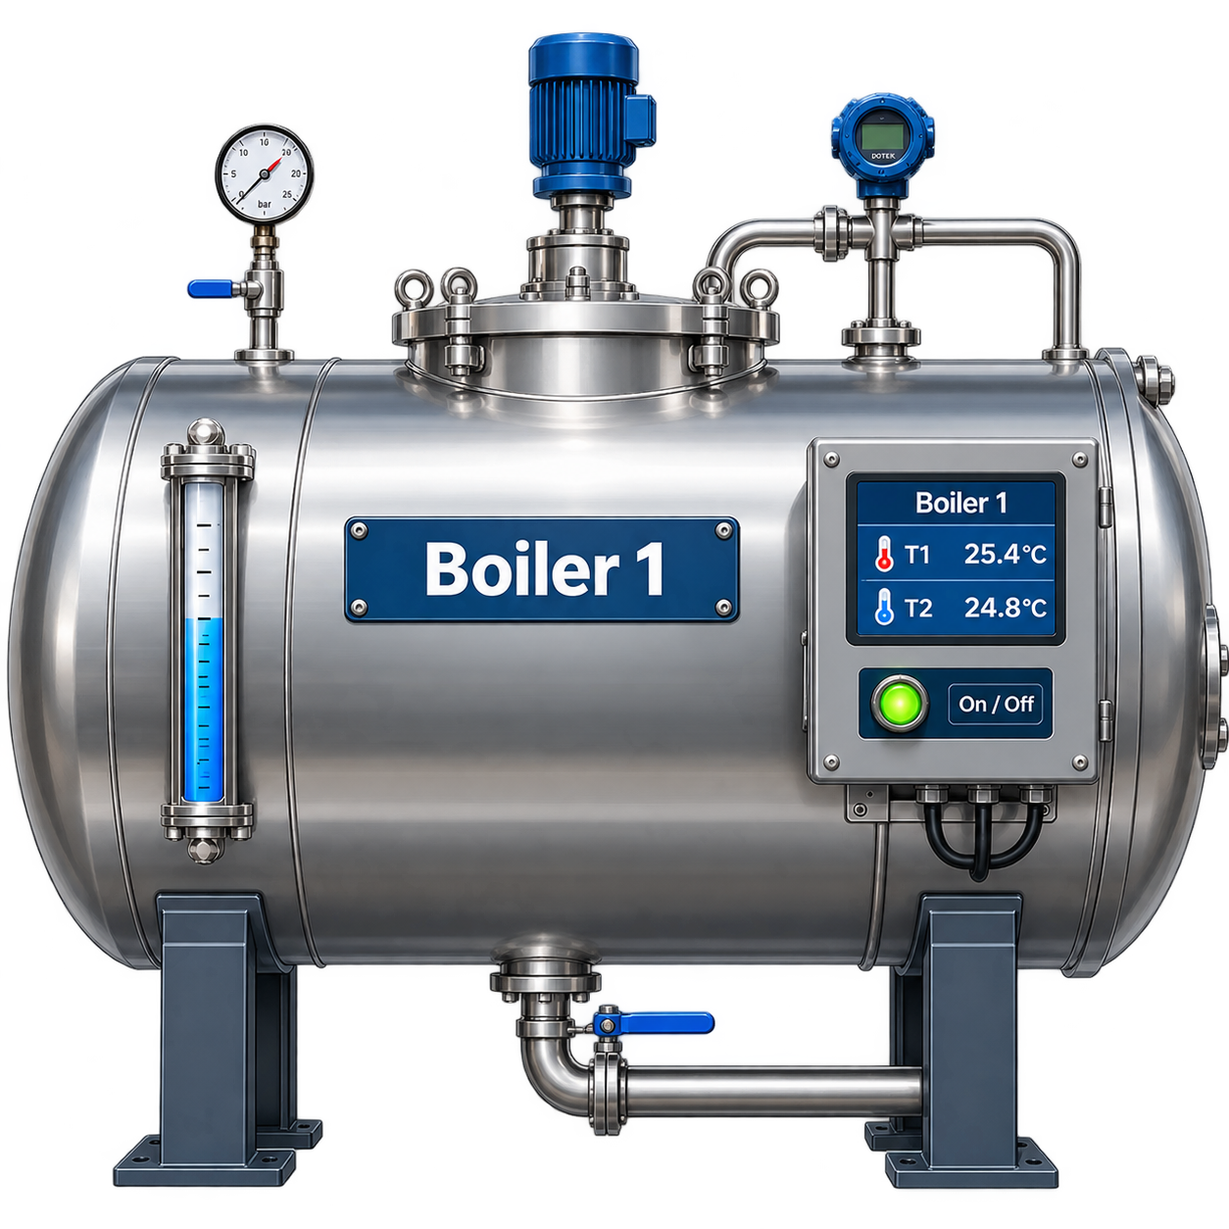
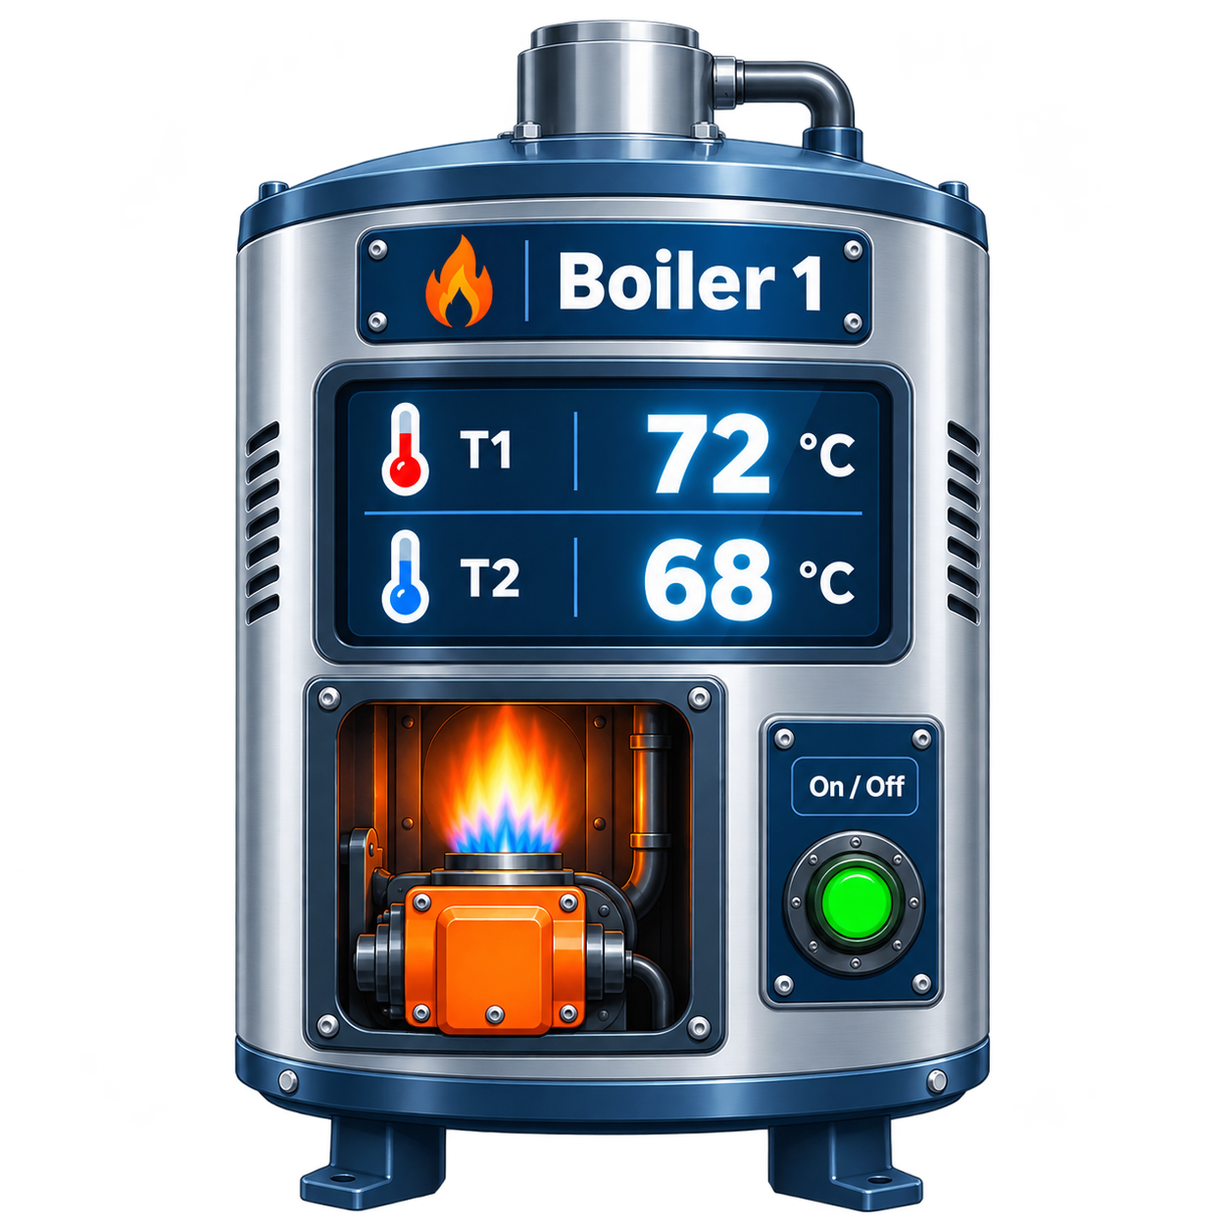
update dashboard

diff --git a/src/routes/monitoring-area.$id.tsx b/src/routes/monitoring-area.$id.tsx
@@ -1,6 +1,6 @@
 import { createFileRoute, Link } from "@tanstack/react-router";
 import { useState, useMemo } from "react";
-import { ChevronLeft, Activity, Flame, Gauge, Power, BarChart3, Filter, Waves, Zap, Thermometer, DollarSign, Fuel, ChevronRight, ChevronsLeft, ChevronsRight, ArrowUpDown, ChevronDown, Calendar, Eye, Download, Pencil, Trash2 } from "lucide-react";
+import { ChevronLeft, Activity, Flame, Gauge, Power, BarChart3, Filter, Waves, Zap, Thermometer, DollarSign, Fuel, ChevronRight, ChevronsLeft, ChevronsRight, ArrowUpDown, ChevronDown, Calendar, Eye, Download, Pencil, Trash2, X } from "lucide-react";
 import { Search } from "@/components/ui/search";
 import { SelectInput } from "@/components/ui/select-input";
 import { Input } from "@/components/ui/input";
@@ -317,6 +317,53 @@ const MINUTE_DATA = Array.from({ length: 30 }, (_, i) => {
 
 function StationDetailContent({ tabKey }: { tabKey: string }) {
   const data = PROCESS_DETAIL_STATIONS[tabKey as keyof typeof PROCESS_DETAIL_STATIONS] as Record<string, any> | undefined;
+  const [timeFilter, setTimeFilter] = useState<"daily" | "monthly" | "yearly">("daily");
+  const [isImageModalOpen, setIsImageModalOpen] = useState(false);
+
+  const trendData = useMemo(() => {
+    if (!data) return [];
+    
+    let length = 24;
+    let getLabel = (i: number) => {
+      if (timeFilter === "daily") {
+        return `${i.toString().padStart(2, '0')}:00`;
+      } else if (timeFilter === "monthly") {
+        return `Day ${i + 1}`;
+      } else {
+        const months = ["Jan", "Feb", "Mar", "Apr", "May", "Jun", "Jul", "Aug", "Sep", "Oct", "Nov", "Dec"];
+        return months[i];
+      }
+    };
+    
+    if (timeFilter === "daily") length = 24;
+    else if (timeFilter === "monthly") length = 30;
+    else length = 12;
+
+    return Array.from({ length }, (_, i) => ({
+      time: getLabel(i),
+      pv: +(parseFloat(data.pv) + (Math.random() * 2 - 1)).toFixed(1),
+      sp: parseFloat(data.sp),
+    }));
+  }, [data, timeFilter]);
+
+  const tableData = useMemo(() => {
+    if (!data) return [];
+    return Array.from({ length: 10 }, (_, i) => {
+      // 16 September 2026, 10:00 (decrementing hour for each row)
+      const date = new Date(2026, 8, 16, 10 - i, 0); 
+      const day = date.getDate();
+      const month = date.toLocaleString('default', { month: 'long' });
+      const year = date.getFullYear();
+      const timeStr = date.toLocaleTimeString('en-GB', { hour: '2-digit', minute: '2-digit' });
+
+      return {
+        time: `${day} ${month} ${year}, ${timeStr}`,
+        pv: +(parseFloat(data.pv) + (Math.random() * 2 - 1)).toFixed(1),
+        sp: parseFloat(data.sp),
+      };
+    });
+  }, [data]);
+
   if (!data) return null;
   return (
     <div className="animate-in fade-in duration-300 bg-card border border-border rounded-lg shadow-sm p-4 m-4">
@@ -343,57 +390,181 @@ function StationDetailContent({ tabKey }: { tabKey: string }) {
         />
       </div>
 
-      {/* Station Illustration */}
-      <div className="border border-border/50 rounded-lg overflow-hidden bg-background mb-6">
-        <div className="flex justify-between items-center p-3 bg-secondary/30 border-b border-border/50">
-          <div className="flex items-center gap-2">
-            <Activity className="h-4 w-4 text-muted-foreground" />
-            <span className="text-xs font-semibold text-muted-foreground uppercase tracking-wider">Station Diagram — {data.name}</span>
+      <div className="grid grid-cols-1 lg:grid-cols-12 gap-6 mb-6">
+        {/* Station Illustration */}
+        <div className="lg:col-span-5 border border-border/50 rounded-lg overflow-hidden bg-background flex flex-col h-full">
+          <div className="flex justify-between items-center p-3 bg-secondary/30 border-b border-border/50 shrink-0">
+            <div className="flex items-center gap-2">
+              <Activity className="h-4 w-4 text-muted-foreground" />
+              <span className="text-xs font-semibold text-muted-foreground uppercase tracking-wider">Station Diagram — {data.name}</span>
+            </div>
+            <span className="text-[10px] font-mono px-2 py-0.5 rounded bg-orange-500/10 text-orange-600 border border-orange-500/20">READ-ONLY</span>
           </div>
-          <span className="text-[10px] font-mono px-2 py-0.5 rounded bg-orange-500/10 text-orange-600 border border-orange-500/20">READ-ONLY</span>
+
+          <div 
+            className="relative w-full flex-1 flex items-center justify-center p-4 min-h-[250px] cursor-pointer hover:opacity-80 transition-opacity"
+            onClick={() => setIsImageModalOpen(true)}
+            title="Click to enlarge"
+          >
+            {tabKey === "pre-degreasing" ? (
+              <img src={StationPreDegreasingPng} alt={`Station ${data.name}`} className="absolute inset-4 w-[calc(100%-2rem)] h-[calc(100%-2rem)] object-contain mix-blend-multiply dark:mix-blend-screen dark:invert" />
+            ) : tabKey === "degreasing" ? (
+              <img src={StationDegreasingNewPng} alt={`Station ${data.name}`} className="absolute inset-4 w-[calc(100%-2rem)] h-[calc(100%-2rem)] object-contain mix-blend-multiply dark:mix-blend-screen dark:invert" />
+            ) : tabKey === "flood" ? (
+              <img src={StationFloodPng} alt={`Station ${data.name}`} className="absolute inset-4 w-[calc(100%-2rem)] h-[calc(100%-2rem)] object-contain mix-blend-multiply dark:mix-blend-screen dark:invert" />
+            ) : tabKey === "phosphate" ? (
+              <img src={StationPhosphatePng} alt={`Station ${data.name}`} className="absolute inset-4 w-[calc(100%-2rem)] h-[calc(100%-2rem)] object-contain mix-blend-multiply dark:mix-blend-screen dark:invert" />
+            ) : (
+              <div className="w-full h-full flex items-center justify-center text-muted-foreground text-sm">Station diagram coming soon</div>
+            )}
+          </div>
         </div>
 
-        <div className="relative w-full overflow-auto flex items-center justify-center p-4">
-          {tabKey === "pre-degreasing" ? (
-            <img src={StationPreDegreasingPng} alt={`Station ${data.name}`} className="w-full h-auto object-contain mix-blend-multiply dark:mix-blend-screen dark:invert" />
-          ) : tabKey === "degreasing" ? (
-            <img src={StationDegreasingNewPng} alt={`Station ${data.name}`} className="w-full h-auto object-contain mix-blend-multiply dark:mix-blend-screen dark:invert" />
-          ) : tabKey === "flood" ? (
-            <img src={StationFloodPng} alt={`Station ${data.name}`} className="w-full h-auto object-contain mix-blend-multiply dark:mix-blend-screen dark:invert" />
-          ) : tabKey === "phosphate" ? (
-            <img src={StationPhosphatePng} alt={`Station ${data.name}`} className="w-full h-auto object-contain mix-blend-multiply dark:mix-blend-screen dark:invert" />
-          ) : (
-            <div className="w-full h-[400px] flex items-center justify-center text-muted-foreground text-sm">Station diagram coming soon</div>
-          )}
+        {/* Temperature Trend Chart */}
+        <div className="lg:col-span-7 rounded-xl border bg-card p-6 shadow-sm flex flex-col h-full">
+          <div className="flex justify-between items-start mb-6 shrink-0">
+            <div>
+              <h2 className="text-xl font-bold tracking-tight text-foreground">Temperature Trends</h2>
+              <p className="text-sm text-muted-foreground mt-1">Temperature PV and SP trend over the selected {timeFilter} timeframe.</p>
+            </div>
+            <div className="flex bg-secondary/50 rounded-lg p-1 border border-border/50 shrink-0">
+              {(["daily", "monthly", "yearly"] as const).map((t) => (
+                <button
+                  key={t}
+                  onClick={() => setTimeFilter(t)}
+                  className={`px-4 py-1.5 rounded-md text-xs font-medium transition-colors ${timeFilter === t
+                    ? "bg-background text-foreground shadow-sm border border-border/50"
+                    : "text-muted-foreground hover:text-foreground hover:bg-secondary/80"
+                    }`}
+                >
+                  {t === "daily" ? "Daily (24H)" : t === "monthly" ? "Monthly (30D)" : "Yearly (Jan-Dec)"}
+                </button>
+              ))}
+            </div>
+          </div>
+          <div className="flex-1 w-full min-h-[300px]">
+            <ResponsiveContainer width="100%" height="100%">
+              <LineChart data={trendData} margin={{ top: 20, right: 30, left: 10, bottom: 5 }}>
+                <CartesianGrid strokeDasharray="3 3" vertical={false} opacity={0.3} />
+                <XAxis dataKey="time" tick={{ fontSize: 12 }} tickLine={false} axisLine={false} />
+                <YAxis tick={{ fontSize: 12 }} domain={['dataMin - 2', 'dataMax + 2']} tickLine={false} axisLine={false} label={{ value: 'Temperature (°C)', angle: -90, position: 'insideLeft', offset: -5, style: { fontSize: 12, fill: '#3b82f6', fontWeight: 600 } }} />
+                <Tooltip contentStyle={{ backgroundColor: "rgba(0,0,0,0.8)", borderRadius: "8px", border: "1px solid rgba(255,255,255,0.1)" }} itemStyle={{ fontSize: 12 }} />
+                <Legend wrapperStyle={{ paddingTop: "20px" }} iconType="circle" />
+                <Line type="monotone" dataKey="sp" name="Set Point" stroke="#ef4444" strokeWidth={2} strokeDasharray="5 5" dot={false} activeDot={false} />
+                <Line type="monotone" dataKey="pv" name="Actual Temp" stroke="#3b82f6" strokeWidth={2} dot={{ r: 4, strokeWidth: 2, fill: "hsl(var(--card))" }} activeDot={{ r: 6 }} />
+              </LineChart>
+            </ResponsiveContainer>
+          </div>
         </div>
       </div>
 
-      {/* Temperature Trend Chart */}
-      <Panel title="Temperature Trends" className="mb-2">
-        <div className="h-[300px] w-full p-4">
-          <ResponsiveContainer width="100%" height="100%">
-            <LineChart
-              data={Array.from({ length: 30 }, (_, i) => {
-                const time = new Date(Date.now() - (29 - i) * 60000);
-                return {
-                  time: time.toLocaleTimeString([], { hour: '2-digit', minute: '2-digit' }),
-                  pv: +(parseFloat(data.pv) + (Math.random() * 2 - 1)).toFixed(1),
-                  sp: parseFloat(data.sp),
-                };
-              })}
-              margin={{ top: 10, right: 10, left: 10, bottom: 0 }}
-            >
-              <CartesianGrid strokeDasharray="3 3" vertical={false} opacity={0.3} />
-              <XAxis dataKey="time" tick={{ fontSize: 10 }} tickMargin={10} />
-              <YAxis tick={{ fontSize: 10 }} domain={['dataMin - 2', 'dataMax + 2']} label={{ value: 'Temperature', angle: -90, position: 'insideLeft', style: { textAnchor: 'middle', fill: '#3b82f6', fontSize: 12, fontWeight: 600 } }} />
-              <Tooltip contentStyle={{ backgroundColor: "rgba(0,0,0,0.8)", borderRadius: "8px", border: "1px solid rgba(255,255,255,0.1)" }} itemStyle={{ fontSize: 12 }} />
-              <Legend wrapperStyle={{ fontSize: "12px", paddingTop: "10px" }} />
-              <Line type="monotone" dataKey="sp" name="Set Point" stroke="#ef4444" strokeWidth={1.5} strokeDasharray="3 3" dot={false} activeDot={false} />
-              <Line type="monotone" dataKey="pv" name="Actual Temp" stroke="#3b82f6" strokeWidth={2} dot={false} activeDot={{ r: 4 }} />
-            </LineChart>
-          </ResponsiveContainer>
+      {/* Table History */}
+      <div className="w-full rounded-lg border border-border bg-card shadow-sm overflow-hidden mt-6 mb-2">
+        <div className="flex items-center justify-between p-4 border-b border-border/50 bg-card">
+          <h3 className="text-lg font-semibold text-foreground">Temperature History</h3>
         </div>
-      </Panel>
+        {/* Search and Filters */}
+        <div className="flex flex-col lg:flex-row items-center gap-4 px-4 py-3 bg-secondary/10 border-b border-border/50 w-full">
+          <Search placeholder="Search" containerClassName="flex-1 w-full" />
+          <div className="flex items-center gap-2 px-3 py-2 rounded-lg border border-border bg-background text-sm text-muted-foreground cursor-pointer hover:bg-secondary/20 transition-colors">
+            <Calendar className="h-4 w-4" />
+            <span>dd/mm/yyyy - dd/mm/yyyy</span>
+          </div>
+        </div>
+
+        <Table freezeHeader={false}>
+          <THead>
+            <Tr noHover>
+              <Th sortable column="time">TIME / PERIOD</Th>
+              <Th sortable column="pv" className="text-right">ACTUAL TEMP (PV)</Th>
+              <Th sortable column="sp" className="text-right">SET POINT (SP)</Th>
+              <Th sortable column="status" className="text-center">STATUS</Th>
+            </Tr>
+          </THead>
+          <TBody>
+            {tableData.map((row, idx) => {
+              const diff = Math.abs(row.pv - row.sp);
+              const isWarning = diff > 2; // Threshold for warning
+              return (
+                <Tr key={idx}>
+                  <Td className="font-medium text-foreground">{row.time}</Td>
+                  <Td className="text-right font-mono font-medium text-blue-500">{row.pv.toFixed(1)} °C</Td>
+                  <Td className="text-right font-mono font-medium text-foreground">{row.sp.toFixed(1)} °C</Td>
+                  <Td className="text-center">
+                    {isWarning ? (
+                      <span className="inline-flex items-center px-2 py-0.5 rounded text-[10px] font-semibold bg-red-500/10 text-red-600 border border-red-500/20">WARNING</span>
+                    ) : (
+                      <span className="inline-flex items-center px-2 py-0.5 rounded text-[10px] font-semibold bg-emerald-500/10 text-emerald-600 border border-emerald-500/20">NORMAL</span>
+                    )}
+                  </Td>
+                </Tr>
+              );
+            })}
+          </TBody>
+        </Table>
+
+        {/* Pagination Footer */}
+        <div className="flex items-center justify-between px-4 py-4 border-t border-border/60">
+          <div className="flex items-center gap-4 text-sm text-muted-foreground font-medium">
+            <div className="flex items-center gap-2">
+              <span>Rows per page</span>
+              <div className="flex items-center justify-between w-[60px] px-2 py-1.5 border border-border rounded-md bg-background cursor-pointer hover:bg-secondary/40 transition-colors">
+                <span>10</span>
+                <ChevronDown className="h-3 w-3 opacity-50" />
+              </div>
+            </div>
+            <span>1–10 of {tableData.length}</span>
+          </div>
+          <div className="flex items-center gap-1">
+            <button className="w-8 h-8 flex items-center justify-center rounded-md border border-border text-muted-foreground hover:bg-secondary/40 hover:text-foreground transition-colors text-sm font-medium">«</button>
+            <button className="w-8 h-8 flex items-center justify-center rounded-md border border-border text-muted-foreground hover:bg-secondary/40 hover:text-foreground transition-colors text-sm font-medium">‹</button>
+            <button className="w-8 h-8 flex items-center justify-center rounded-md bg-[#1F5AA6] text-white text-sm font-semibold border border-[#1F5AA6]">1</button>
+            <button className="w-8 h-8 flex items-center justify-center rounded-md border border-border text-muted-foreground hover:bg-secondary/40 hover:text-foreground transition-colors text-sm font-medium">2</button>
+            <button className="w-8 h-8 flex items-center justify-center rounded-md border border-border text-muted-foreground hover:bg-secondary/40 hover:text-foreground transition-colors text-sm font-medium">3</button>
+            <button className="w-8 h-8 flex items-center justify-center rounded-md border border-border text-muted-foreground hover:bg-secondary/40 hover:text-foreground transition-colors text-sm font-medium">›</button>
+            <button className="w-8 h-8 flex items-center justify-center rounded-md border border-border text-muted-foreground hover:bg-secondary/40 hover:text-foreground transition-colors text-sm font-medium">»</button>
+          </div>
+        </div>
+      </div>
+
+      {/* Image Modal Popup */}
+      {isImageModalOpen && (
+        <div 
+          className="fixed inset-0 z-50 flex items-center justify-center bg-black/60 backdrop-blur-sm p-4 animate-in fade-in duration-200"
+          onClick={() => setIsImageModalOpen(false)}
+        >
+          <div 
+            className="relative bg-background rounded-xl shadow-2xl border border-border/50 max-w-5xl w-full max-h-[90vh] flex flex-col overflow-hidden animate-in zoom-in-95 duration-200"
+            onClick={(e) => e.stopPropagation()}
+          >
+            <div className="flex justify-between items-center p-4 border-b border-border/50 bg-muted/30">
+              <h3 className="font-semibold flex items-center gap-2">
+                <Activity className="w-4 h-4 text-primary" />
+                Station Diagram — {data.name}
+              </h3>
+              <button 
+                onClick={() => setIsImageModalOpen(false)}
+                className="p-1 rounded-md hover:bg-muted text-muted-foreground transition-colors"
+              >
+                <X className="w-5 h-5" />
+              </button>
+            </div>
+            <div className="p-6 overflow-auto flex-1 flex items-center justify-center min-h-[50vh]">
+              {tabKey === "pre-degreasing" ? (
+                <img src={StationPreDegreasingPng} alt={`Station ${data.name}`} className="max-w-full max-h-[70vh] object-contain mix-blend-multiply dark:mix-blend-screen dark:invert" />
+              ) : tabKey === "degreasing" ? (
+                <img src={StationDegreasingNewPng} alt={`Station ${data.name}`} className="max-w-full max-h-[70vh] object-contain mix-blend-multiply dark:mix-blend-screen dark:invert" />
+              ) : tabKey === "flood" ? (
+                <img src={StationFloodPng} alt={`Station ${data.name}`} className="max-w-full max-h-[70vh] object-contain mix-blend-multiply dark:mix-blend-screen dark:invert" />
+              ) : tabKey === "phosphate" ? (
+                <img src={StationPhosphatePng} alt={`Station ${data.name}`} className="max-w-full max-h-[70vh] object-contain mix-blend-multiply dark:mix-blend-screen dark:invert" />
+              ) : (
+                <div className="text-muted-foreground">No diagram available</div>
+              )}
+            </div>
+          </div>
+        </div>
+      )}
     </div>
   );
 }
@@ -673,7 +844,7 @@ function MonitoringAreaDetails() {
                             iconBg: "bg-blue-500/10 text-blue-500",
                           },
                           {
-                            title: `Avg Energy / ${timeFilter.replace('ly', '')}`,
+                            title: `Avg Energy / ${timeFilter === 'daily' ? 'day' : timeFilter.replace('ly', '')}`,
                             value: `${summary.avgEnergy.toLocaleString()} kWh`,
                             variant: "stat-side",
                             icon: <Zap />,
@@ -696,7 +867,7 @@ function MonitoringAreaDetails() {
                             iconBg: "bg-amber-500/10 text-amber-500",
                           },
                           {
-                            title: `Avg Gas / ${timeFilter.replace('ly', '')}`,
+                            title: `Avg Gas / ${timeFilter === 'daily' ? 'day' : timeFilter.replace('ly', '')}`,
                             value: `${summary.avgGas.toLocaleString()} MMBTU`,
                             variant: "stat-side",
                             icon: <Flame />,
@@ -974,11 +1145,10 @@ function MonitoringAreaDetails() {
             ]}
           />
         </div>
-      ) : ["flood-station", "degreasing", "pree-degreasing", "phosphate"].includes(id) ? (
+      ) : ["flood-station", "degreasing", "pre-degreasing", "phosphate"].includes(id) ? (
         <div className="mt-2">
           <StationDetailContent tabKey={
             id === "flood-station" ? "flood" :
-              id === "pree-degreasing" ? "pre-degreasing" :
                 id
           } />
         </div>

diff --git a/src/lib/mock-data.ts b/src/lib/mock-data.ts
@@ -349,9 +349,9 @@ export const APPROVAL_REQUESTS: ApprovalRequest[] = [
 ];
 
 export const BOILER_USAGE_HISTORY = {
-  daily: Array.from({length: 30}, (_, i) => ({ label: 'Day ' + (i+1), energy: 4000 + Math.floor(Math.random()*2000), gas: 800 + Math.floor(Math.random()*400) })),
-  monthly: ['Jan','Feb','Mar','Apr','May','Jun','Jul','Aug','Sep','Oct','Nov','Dec'].map(m => ({ label: m, energy: 120000 + Math.floor(Math.random()*30000), gas: 24000 + Math.floor(Math.random()*6000) })),
-  yearly: Array.from({length: 10}, (_, i) => ({ label: (2015+i).toString(), energy: 1500000 + Math.floor(Math.random()*400000), gas: 300000 + Math.floor(Math.random()*80000) }))
+  daily: Array.from({length: 24}, (_, i) => ({ label: String(i).padStart(2, '0') + ':00', energy: 400 + Math.floor(Math.random()*200), gas: 80 + Math.floor(Math.random()*40) })),
+  monthly: Array.from({length: 30}, (_, i) => ({ label: 'Day ' + (i+1), energy: 4000 + Math.floor(Math.random()*2000), gas: 800 + Math.floor(Math.random()*400) })),
+  yearly: ['Jan','Feb','Mar','Apr','May','Jun','Jul','Aug','Sep','Oct','Nov','Dec'].map(m => ({ label: m, energy: 120000 + Math.floor(Math.random()*30000), gas: 24000 + Math.floor(Math.random()*6000) }))
 };
 
 export const LINE_TRACKING_ZONES = [
@@ -427,10 +427,10 @@ export const LINE_TRACKING_STATIONS = (() => {
 })();
 
 export const PROCESS_DETAIL_STATIONS = {
-  'pre-degreasing': { name: 'Pre-Degreasing', pv: 46.2, sp: 45.0, valve: 42, pump1: true, pump2: false, alarm: false },
-  'degreasing': { name: 'Degreasing', pv: 52.8, sp: 52.0, valve: 65, pump1: true, pump2: true, alarm: false },
-  'flood': { name: 'Flood', pv: 28.5, sp: 30.0, valve: 45, pump1: true, pump2: true, alarm: true },
-  'phosphate': { name: 'Phosphate', pv: 42.5, sp: 42.0, valve: 18, pump1: true, pump2: true, alarm: false }
+  'pre-degreasing': { name: 'Pre-Degreasing', pv: 46.2, sp: 45.0, fluidTemp: 44.5, valve: 42, pump1: true, pump2: false, alarm: false },
+  'degreasing': { name: 'Degreasing', pv: 52.8, sp: 52.0, fluidTemp: 51.2, valve: 65, pump1: true, pump2: true, alarm: false },
+  'flood': { name: 'Flood', pv: 28.5, sp: 30.0, fluidTemp: 29.1, valve: 45, pump1: true, pump2: true, alarm: true },
+  'phosphate': { name: 'Phosphate', pv: 42.5, sp: 42.0, fluidTemp: 41.8, valve: 18, pump1: true, pump2: true, alarm: false }
 };
 
 export function ovenElecDailyTrend(baseKw: number, baseVolt: number = 380) {

diff --git a/src/routes/monitoring-area.index.tsx b/src/routes/monitoring-area.index.tsx
@@ -407,11 +407,16 @@ function AreaCard({ area }: { area: AreaDef }) {
         <div className="grid grid-cols-1 md:grid-cols-2 gap-4 mt-2 h-full">
           {/* PTED Equipment Card */}
           <div className="border border-border/50 rounded-lg p-4 bg-background flex flex-col h-full">
-            <h3 className="text-xs font-semibold uppercase tracking-widest text-muted-foreground mb-3 flex items-center gap-1.5"><Activity className="h-4 w-4" /> PTED Equipment</h3>
+            <div className="flex justify-between items-center mb-3">
+              <h3 className="text-xs font-semibold uppercase tracking-widest text-muted-foreground flex items-center gap-1.5"><Activity className="h-4 w-4" /> PTED Equipment</h3>
+              <div className="flex items-center gap-1.5 bg-orange-500/10 text-orange-600 border border-orange-500/20 px-2 py-0.5 rounded-full text-[10px] font-semibold uppercase tracking-wider">
+                Fluid Temperature
+              </div>
+            </div>
             <div className="flex flex-col gap-3 flex-1">
               {[
                 { name: "Flood Station", id: "flood-station", pv: "30.1", sp: "30.0" },
-                { name: "Pree Degreasing", id: "pree-degreasing", pv: "46.2", sp: "45.0" },
+                { name: "Pre-Degreasing", id: "pre-degreasing", pv: "46.2", sp: "45.0" },
                 { name: "Degreasing", id: "degreasing", pv: "35.0", sp: "35.0" },
                 { name: "Phosphate", id: "phosphate", pv: "42.5", sp: "42.0" }
               ].map(eq => (

diff --git a/src/components/ui/sidebar.tsx b/src/components/ui/sidebar.tsx
@@ -603,7 +603,7 @@ const SidebarMenuAction = React.forwardRef<
         "peer-data-[size=lg]/menu-button:top-2.5",
         "group-data-[collapsible=icon]:hidden",
         showOnHover &&
-          "group-focus-within/menu-item:opacity-100 group-hover/menu-item:opacity-100 data-[state=open]:opacity-100 peer-data-[active=true]/menu-button:text-sidebar-accent-foreground md:opacity-0",
+        "group-focus-within/menu-item:opacity-100 group-hover/menu-item:opacity-100 data-[state=open]:opacity-100 peer-data-[active=true]/menu-button:text-sidebar-accent-foreground md:opacity-0",
         className,
       )}
       {...props}
